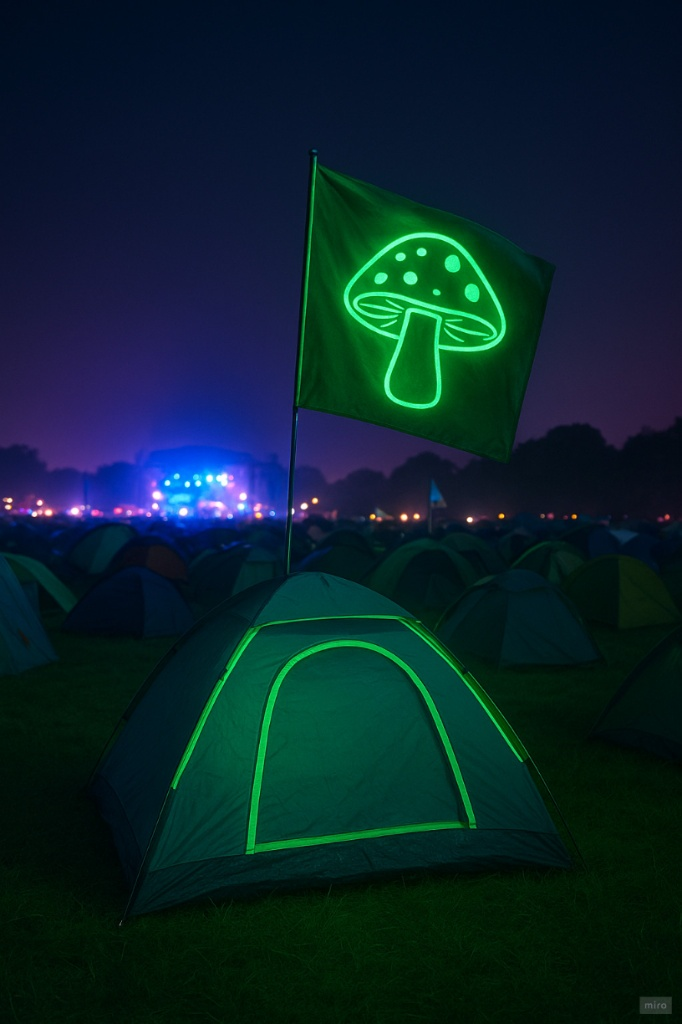
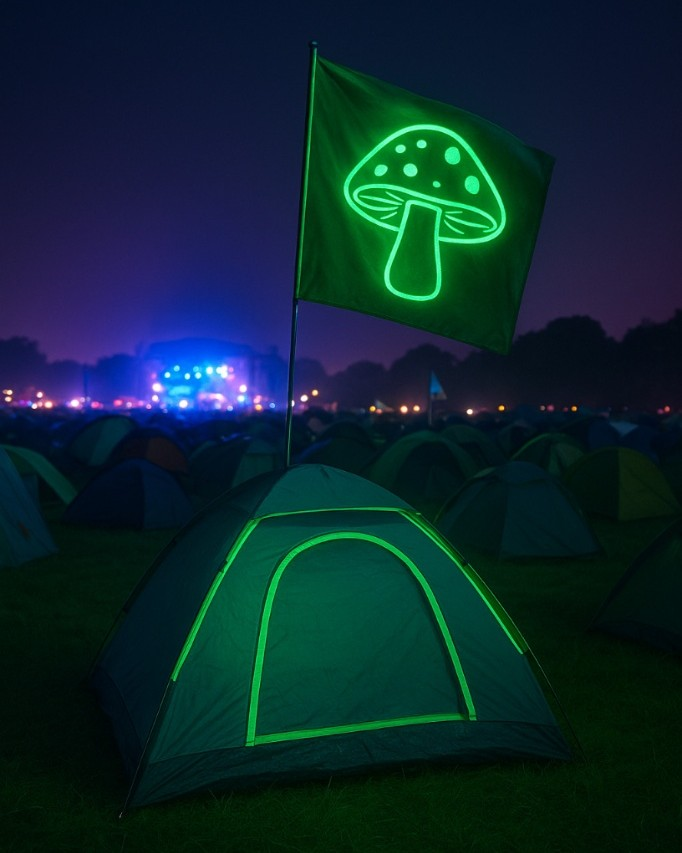
Update: Replace placeholder with festival tent flag image and adjust statistics in ProblemSolution component

diff --git a/src/components/Hero.tsx b/src/components/Hero.tsx
@@ -69,24 +69,24 @@ const Hero = () => {
           </div>
         </div>
 
-        {/* Features Quick Preview */}
-        <div className="mt-16 grid grid-cols-1 md:grid-cols-3 gap-6">
-          <div className="text-center">
-            <div className="text-3xl mb-2">🌟</div>
-            <h4 className="font-semibold text-white mb-2">Zichtbaar in het Donker</h4>
-            <p className="text-gray-400 text-sm">LED-licht dat de hele nacht brandt</p>
-          </div>
-          <div className="text-center">
-            <div className="text-3xl mb-2">🎨</div>
-            <h4 className="font-semibold text-white mb-2">Custom Design</h4>
-            <p className="text-gray-400 text-sm">Jouw eigen unieke stijl</p>
-          </div>
-          <div className="text-center">
-            <div className="text-3xl mb-2">⚡</div>
-            <h4 className="font-semibold text-white mb-2">Festival-Proof</h4>
-            <p className="text-gray-400 text-sm">Waterdicht & stormbestendig</p>
-          </div>
-        </div>
+        {/* Features Quick Preview
+        // <div className="mt-16 grid grid-cols-1 md:grid-cols-3 gap-6">
+        //   <div className="text-center">
+        //     <div className="text-3xl mb-2">🌟</div>
+        //     <h4 className="font-semibold text-white mb-2">Zichtbaar in het Donker</h4>
+        //     <p className="text-gray-400 text-sm">LED-licht dat de hele nacht brandt</p>
+        //   </div>
+        //   <div className="text-center">
+        //     <div className="text-3xl mb-2">🎨</div>
+        //     <h4 className="font-semibold text-white mb-2">Custom Design</h4>
+        //     <p className="text-gray-400 text-sm">Jouw eigen unieke stijl</p>
+        //   </div>
+        //   <div className="text-center">
+        //     <div className="text-3xl mb-2">⚡</div>
+        //     <h4 className="font-semibold text-white mb-2">Festival-Proof</h4>
+        //     <p className="text-gray-400 text-sm">Waterdicht & stormbestendig</p>
+        //   </div>
+        // </div> */}
       </div>
     </section>
   );

diff --git a/src/components/ProductShowcase.tsx b/src/components/ProductShowcase.tsx
@@ -1,5 +1,6 @@
 import { Card } from "@/components/ui/card";
 import { Button } from "@/components/ui/button";
+import festivalTentFlag from "@/assets/festival-tent-flag.jpg";
 
 const ProductShowcase = () => {
   return (
@@ -17,14 +18,19 @@ const ProductShowcase = () => {
         <div className="grid grid-cols-1 lg:grid-cols-2 gap-12 items-center mb-20">
           {/* Product Image Placeholder */}
           <div className="relative">
-            <div className="aspect-square bg-gradient-to-br from-night-blue via-purple-900 to-night-blue rounded-2xl flex items-center justify-center glow-mixed">
+          <img 
+                src={festivalTentFlag} 
+                alt="GlowBuddy lichtgevende vlag op tent tijdens festival"
+                className="w-full h-auto object-cover"
+              />
+            {/* <div className="aspect-square bg-gradient-to-br from-night-blue via-purple-900 to-night-blue rounded-2xl flex items-center justify-center glow-mixed">
               <div className="text-center">
                 <div className="w-48 h-48 mx-auto mb-4 bg-glow-green/20 rounded-full flex items-center justify-center glow-border-green">
                   <span className="text-6xl">🏴</span>
                 </div>
                 <p className="text-glow-green font-bold text-xl">GlowBuddy in actie!</p>
               </div>
-            </div>
+            </div> */}
           </div>
 
           {/* Steps */}

diff --git a/src/components/ProblemSolution.tsx b/src/components/ProblemSolution.tsx
@@ -97,11 +97,11 @@ const ProblemSolution = () => {
         {/* Stats */}
         <div className="mt-20 grid grid-cols-1 md:grid-cols-3 gap-8 text-center">
           <div>
-            <div className="text-4xl font-bold glow-text-green mb-2">89%</div>
+            <div className="text-4xl font-bold glow-text-green mb-2">55%</div>
             <p className="text-gray-300">Van festivalgangers raakt hun tent kwijt</p>
           </div>
           <div>
-            <div className="text-4xl font-bold glow-text-pink mb-2">45min</div>
+            <div className="text-4xl font-bold glow-text-pink mb-2">30min</div>
             <p className="text-gray-300">Gemiddelde zoektijd per nacht</p>
           </div>
           <div>
